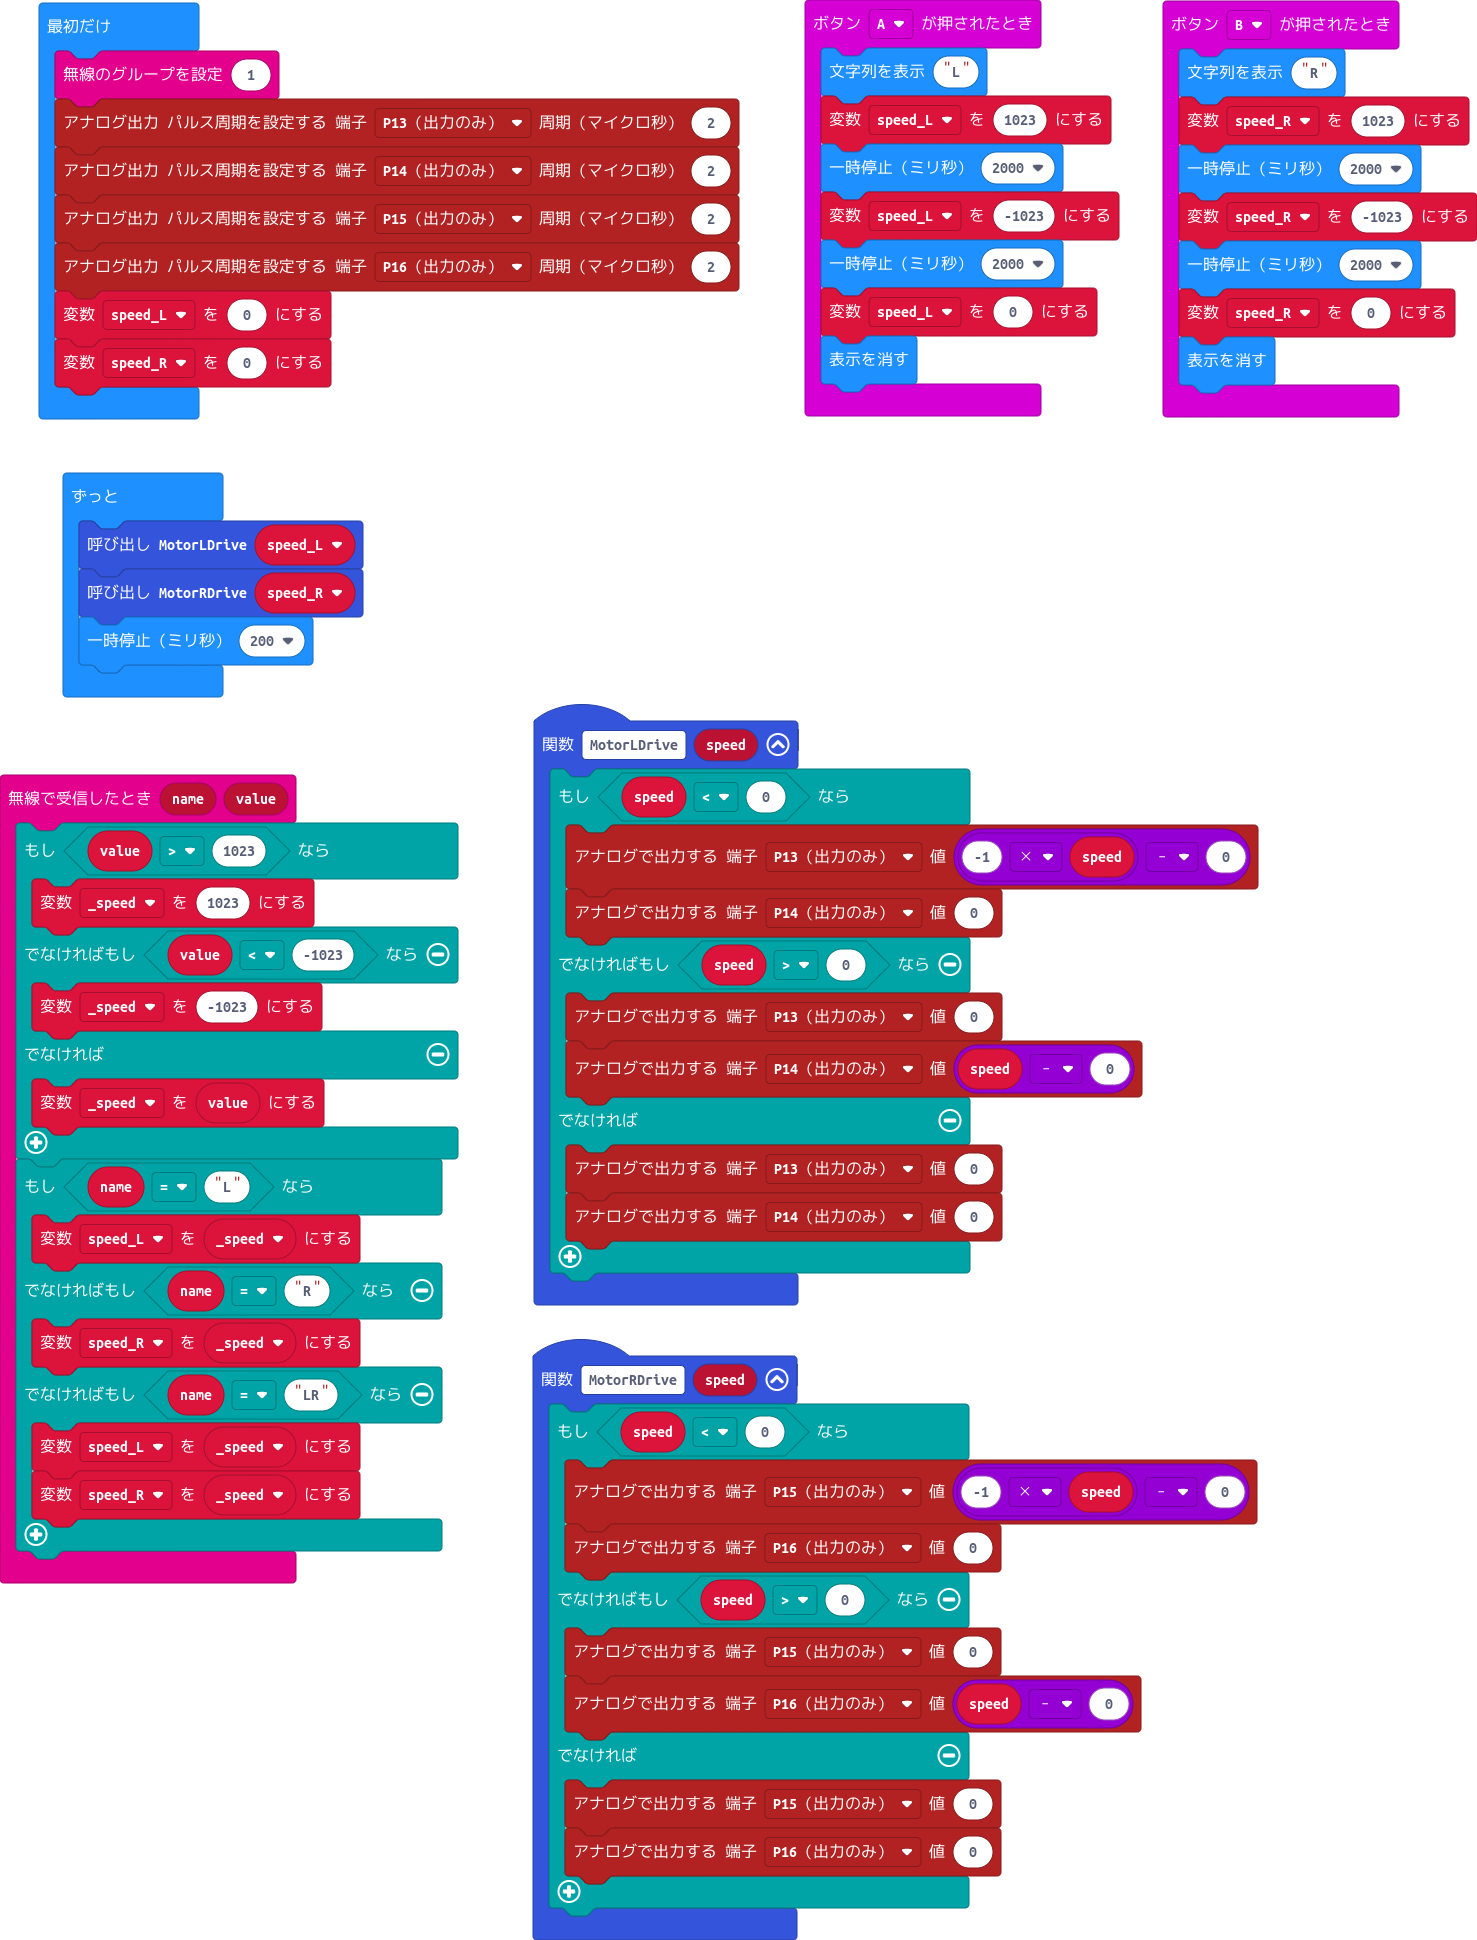
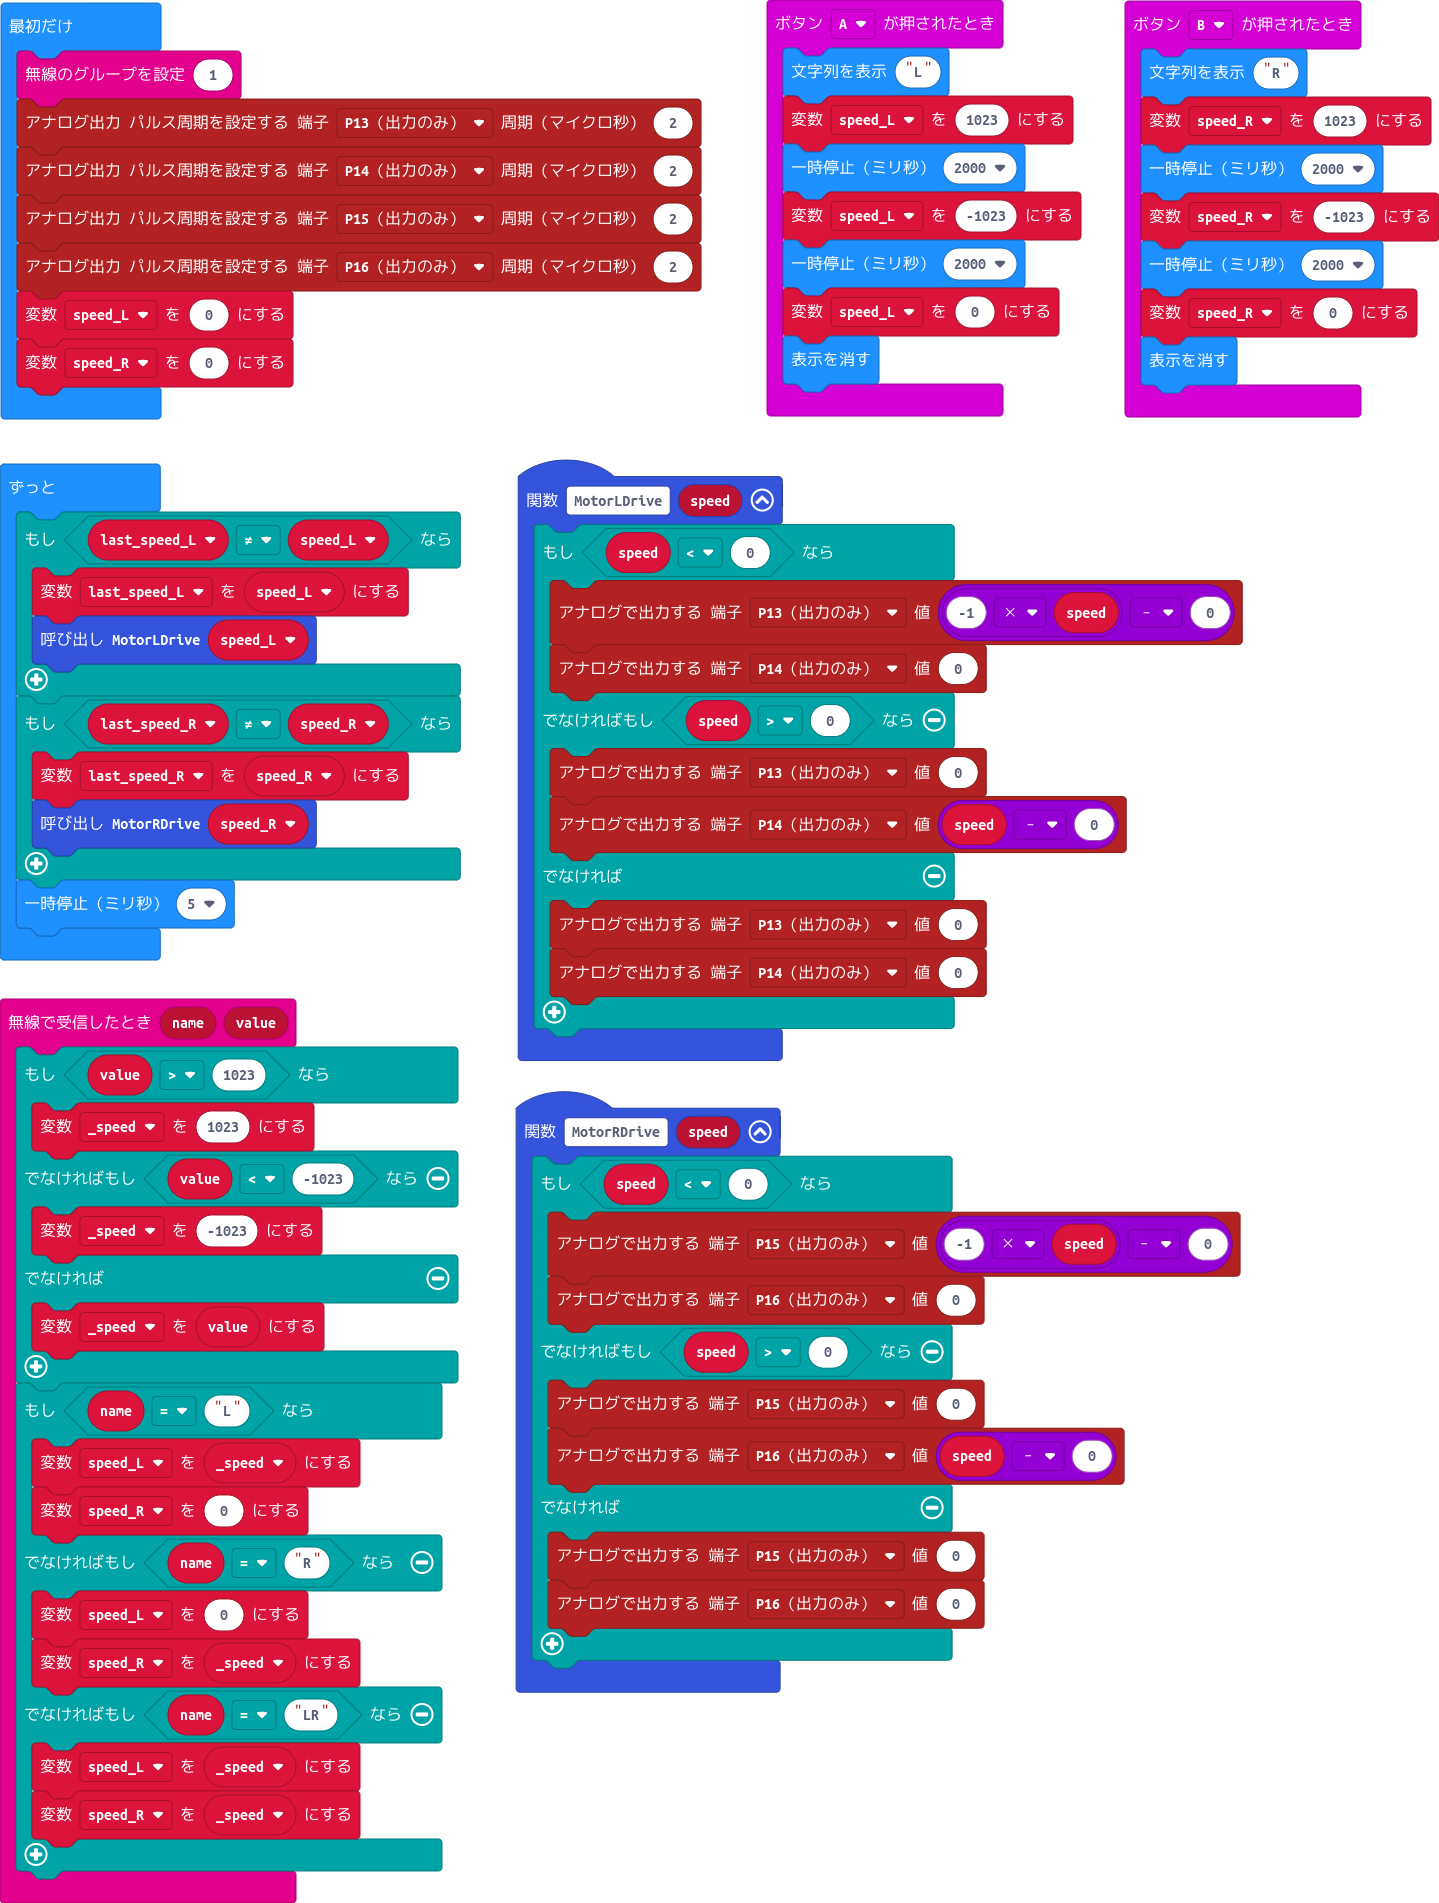
更新 main.blocks, main.ts

diff --git a/main.ts b/main.ts
@@ -50,13 +50,17 @@ radio.onReceivedValue(function (name, value) {
     }
     if (name == "L") {
         speed_L = _speed
+        speed_R = 0
     } else if (name == "R") {
+        speed_L = 0
         speed_R = _speed
     } else if (name == "LR") {
         speed_L = _speed
         speed_R = _speed
     }
 })
+let last_speed_R = 0
+let last_speed_L = 0
 let _speed = 0
 let speed_R = 0
 let speed_L = 0
@@ -68,7 +72,13 @@ pins.analogSetPeriod(AnalogPin.P16, 2)
 speed_L = 0
 speed_R = 0
 basic.forever(function () {
-    MotorLDrive(speed_L)
-    MotorRDrive(speed_R)
-    basic.pause(200)
+    if (last_speed_L != speed_L) {
+        last_speed_L = speed_L
+        MotorLDrive(speed_L)
+    }
+    if (last_speed_R != speed_R) {
+        last_speed_R = speed_R
+        MotorRDrive(speed_R)
+    }
+    basic.pause(5)
 })
